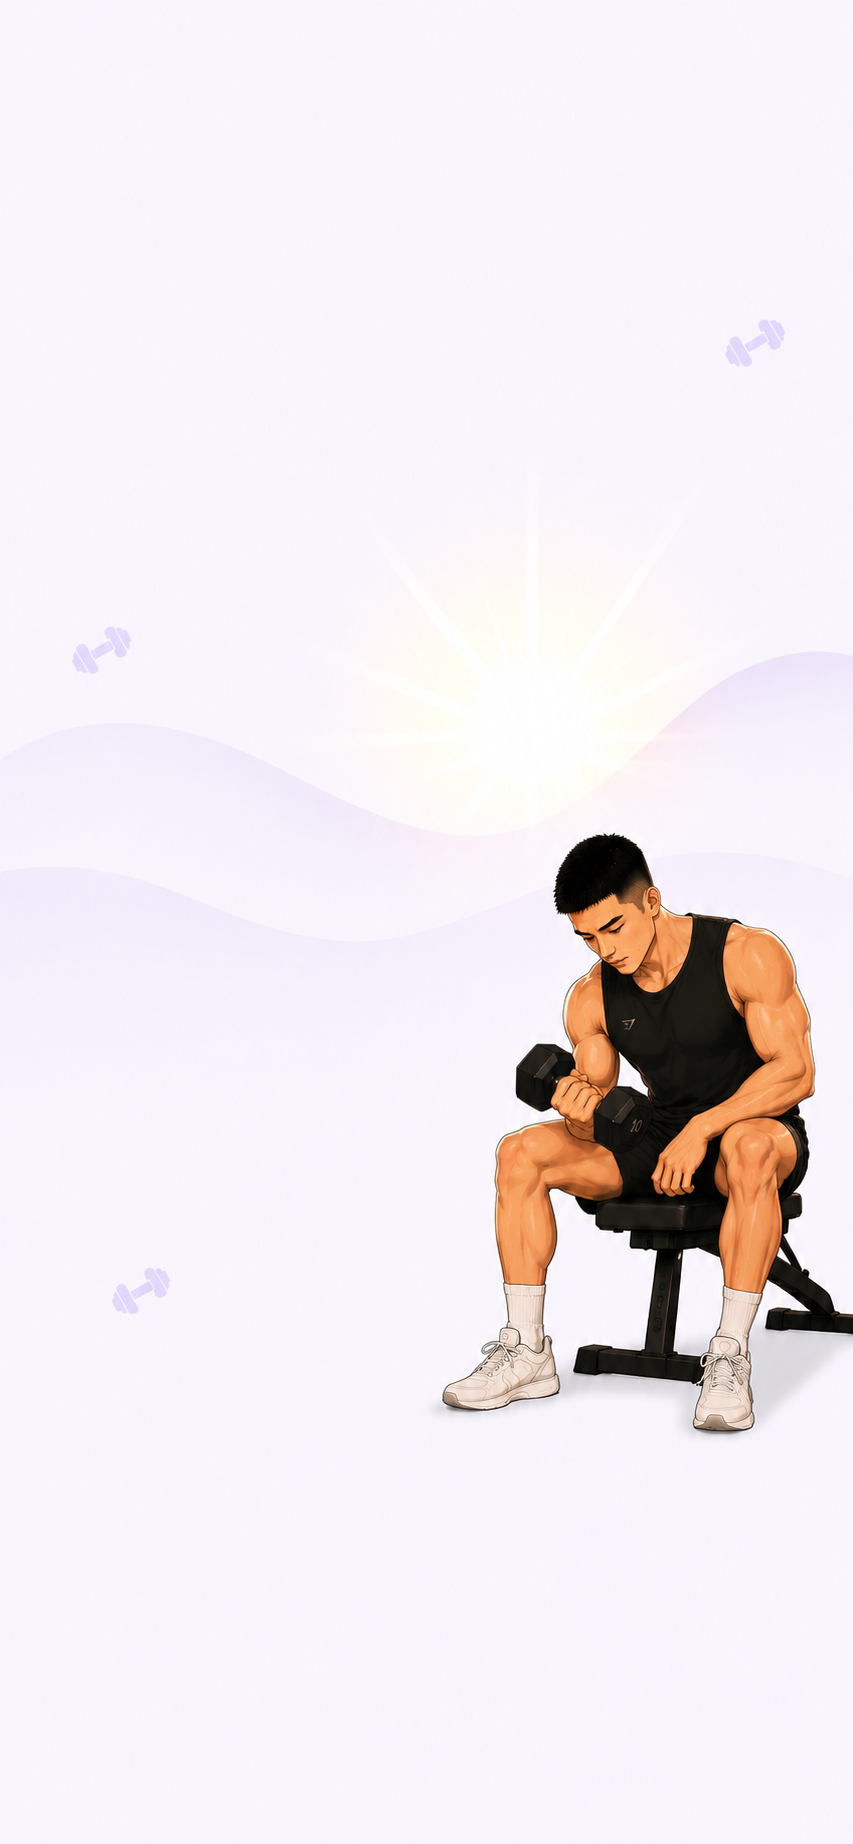
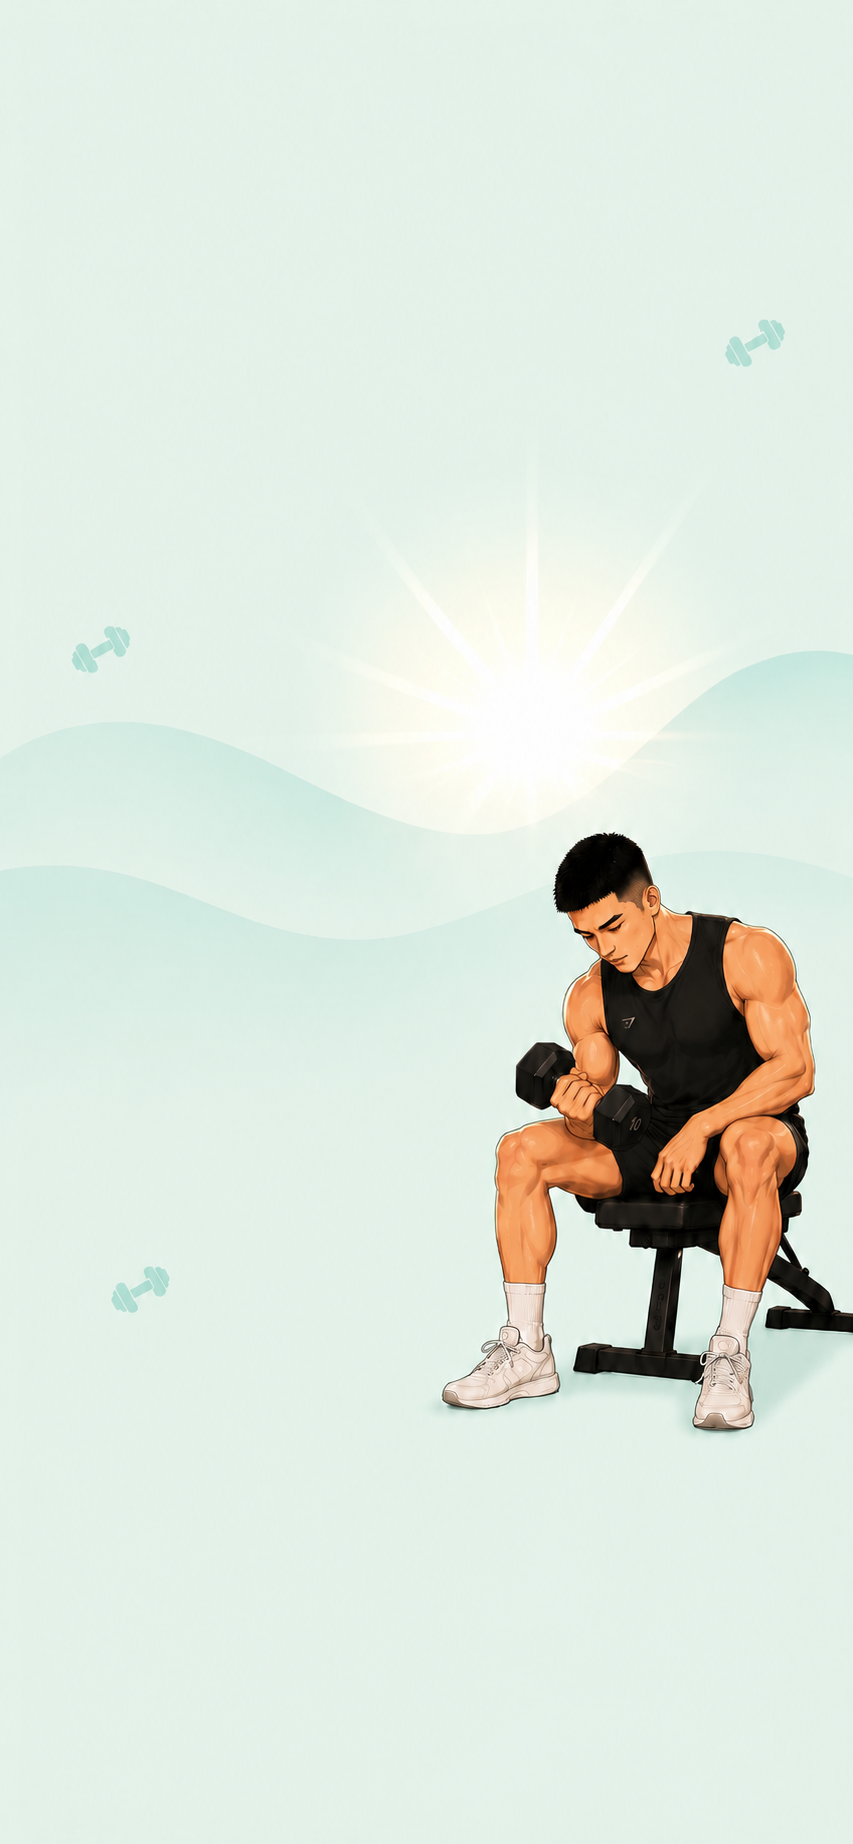
fix: 웹앱에서 모바일 냥냥코치로 실천과제 전송 시 타임존 일치(local date 적용) 및 모바일 일정 탭에서 전송된 시간 정보(timeStart, timeEnd)를 _displayTimeFromStored를 통해 올바르게 표시하도록 수정

diff --git a/lib/screens/tasks_screen.dart b/lib/screens/tasks_screen.dart
@@ -9163,98 +9163,104 @@ class _TasksScreenState extends State<TasksScreen>
                           });
                         }
                       },
-                      child:
-                          (s.time != null ||
-                              s.duration != null ||
-                              s.isRecurring)
-                          ? Row(
-                              children: [
-                                if (s.time != null)
-                                  Container(
-                                    padding: const EdgeInsets.symmetric(
-                                      horizontal: 6,
-                                      vertical: 2,
-                                    ),
-                                    margin: const EdgeInsets.only(right: 6),
-                                    decoration: BoxDecoration(
-                                      color: const Color(0xFFF5F3FF),
-                                      borderRadius: BorderRadius.circular(6),
-                                    ),
-                                    child: Text(
-                                      s.time!,
-                                      style: GoogleFonts.notoSansKr(
-                                        fontSize: 11,
-                                        fontWeight: FontWeight.w700,
-                                        color: const Color(0xFF8B7CFF),
+                      child: () {
+                        final displayTime = _displayTimeFromStored(
+                          time: s.time,
+                          timeStart: s.timeStart,
+                          timeEnd: s.timeEnd,
+                        );
+                        return (displayTime != null ||
+                                s.duration != null ||
+                                s.isRecurring)
+                            ? Row(
+                                children: [
+                                  if (displayTime != null)
+                                    Container(
+                                      padding: const EdgeInsets.symmetric(
+                                        horizontal: 6,
+                                        vertical: 2,
                                       ),
-                                    ),
-                                  ),
-                                if (s.duration != null)
-                                  Container(
-                                    padding: const EdgeInsets.symmetric(
-                                      horizontal: 6,
-                                      vertical: 2,
-                                    ),
-                                    decoration: BoxDecoration(
-                                      color: const Color(0xFFFDF2F8),
-                                      borderRadius: BorderRadius.circular(6),
-                                    ),
-                                    child: Text(
-                                      '⏱ ${s.duration}',
-                                      style: GoogleFonts.notoSansKr(
-                                        fontSize: 11,
-                                        fontWeight: FontWeight.w700,
-                                        color: const Color(0xFFDB2777),
+                                      margin: const EdgeInsets.only(right: 6),
+                                      decoration: BoxDecoration(
+                                        color: const Color(0xFFF5F3FF),
+                                        borderRadius: BorderRadius.circular(6),
                                       ),
-                                    ),
-                                  ),
-                                if (s.isRecurring)
-                                  Container(
-                                    padding: const EdgeInsets.symmetric(
-                                      horizontal: 6,
-                                      vertical: 2,
-                                    ),
-                                    margin: const EdgeInsets.only(left: 6),
-                                    decoration: BoxDecoration(
-                                      color: _coach.accentColor.withOpacity(
-                                        0.08,
-                                      ),
-                                      borderRadius: BorderRadius.circular(6),
-                                    ),
-                                    child: Row(
-                                      mainAxisSize: MainAxisSize.min,
-                                      children: [
-                                        Icon(
-                                          Icons.repeat_rounded,
-                                          size: 12,
-                                          color: _coach.accentColor,
+                                      child: Text(
+                                        displayTime,
+                                        style: GoogleFonts.notoSansKr(
+                                          fontSize: 11,
+                                          fontWeight: FontWeight.w700,
+                                          color: const Color(0xFF8B7CFF),
                                         ),
-                                        const SizedBox(width: 3),
-                                        Text(
-                                          _repeatRuleLabel(s.recurrenceRule),
-                                          style: GoogleFonts.notoSansKr(
-                                            fontSize: 11,
-                                            fontWeight: FontWeight.w800,
+                                      ),
+                                    ),
+                                  if (s.duration != null)
+                                    Container(
+                                      padding: const EdgeInsets.symmetric(
+                                        horizontal: 6,
+                                        vertical: 2,
+                                      ),
+                                      decoration: BoxDecoration(
+                                        color: const Color(0xFFFDF2F8),
+                                        borderRadius: BorderRadius.circular(6),
+                                      ),
+                                      child: Text(
+                                        '⏱ ${s.duration}',
+                                        style: GoogleFonts.notoSansKr(
+                                          fontSize: 11,
+                                          fontWeight: FontWeight.w700,
+                                          color: const Color(0xFFDB2777),
+                                        ),
+                                      ),
+                                    ),
+                                  if (s.isRecurring)
+                                    Container(
+                                      padding: const EdgeInsets.symmetric(
+                                        horizontal: 6,
+                                        vertical: 2,
+                                      ),
+                                      margin: const EdgeInsets.only(left: 6),
+                                      decoration: BoxDecoration(
+                                        color: _coach.accentColor.withOpacity(
+                                          0.08,
+                                        ),
+                                        borderRadius: BorderRadius.circular(6),
+                                      ),
+                                      child: Row(
+                                        mainAxisSize: MainAxisSize.min,
+                                        children: [
+                                          Icon(
+                                            Icons.repeat_rounded,
+                                            size: 12,
                                             color: _coach.accentColor,
                                           ),
-                                        ),
-                                      ],
+                                          const SizedBox(width: 3),
+                                          Text(
+                                            _repeatRuleLabel(s.recurrenceRule),
+                                            style: GoogleFonts.notoSansKr(
+                                              fontSize: 11,
+                                              fontWeight: FontWeight.w800,
+                                              color: _coach.accentColor,
+                                            ),
+                                          ),
+                                        ],
+                                      ),
+                                    ),
+                                ],
+                              )
+                            : Row(
+                                children: [
+                                  Container(
+                                    padding: const EdgeInsets.all(4),
+                                    child: const Icon(
+                                      Icons.access_time,
+                                      size: 16,
+                                      color: Color(0xFFD1D5DB),
                                     ),
                                   ),
-                              ],
-                            )
-                          : Row(
-                              children: [
-                                Container(
-                                  padding: const EdgeInsets.all(4),
-                                  child: const Icon(
-                                    Icons.access_time,
-                                    size: 16,
-                                    color: Color(0xFFD1D5DB),
-                                  ),
-                                ),
-                              ],
-                            ),
+                                ],
+                              );
+                      }(),
                     ),
                   ],
                 ),